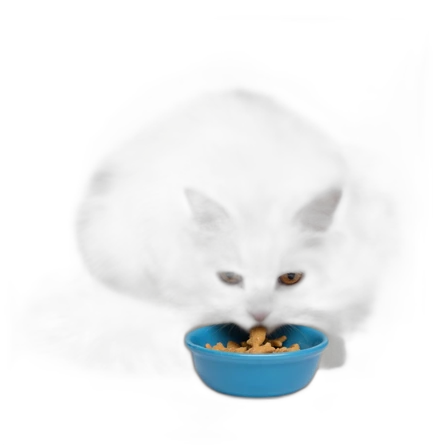
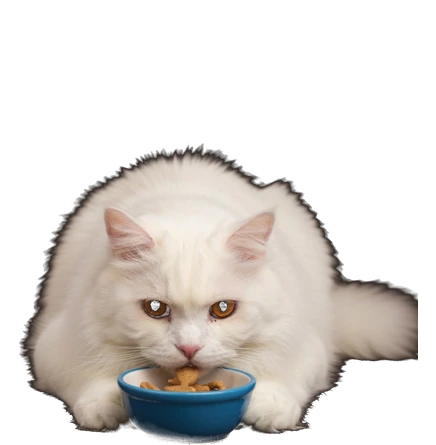
feat: fix eating frame and add plant care interactions
Regenerate the eating cat on a dark studio background, replace the plant with a clean Grok cutout, and add watering, fertilizing and pest-control buttons with bubbles and VFX.

diff --git a/src/styles/shelf.css b/src/styles/shelf.css
@@ -2752,3 +2752,187 @@
   pointer-events: none;
   transform: translateY(4px) scale(0.9);
 }
+
+/* ---------- plant care ---------- */
+.plant-care {
+  position: absolute;
+  right: calc(100% - 12px);
+  bottom: 36px;
+  z-index: 8;
+  display: flex;
+  flex-direction: column;
+  gap: 5px;
+  opacity: 0;
+  pointer-events: none;
+  transform: translateX(4px);
+  transition: opacity 0.18s ease, transform 0.18s ease;
+}
+
+.shelf-decor:hover .plant-care,
+.shelf-decor:focus-within .plant-care,
+.shelf-decor.care-water .plant-care,
+.shelf-decor.care-fertilize .plant-care,
+.shelf-decor.care-pest .plant-care {
+  opacity: 1;
+  pointer-events: auto;
+  transform: translateX(0);
+}
+
+.plant-care button {
+  display: grid;
+  place-items: center;
+  width: 24px;
+  height: 24px;
+  padding: 0;
+  border: 1px solid rgba(238, 211, 166, 0.26);
+  border-radius: 50%;
+  color: #efdbb8;
+  background: rgba(42, 26, 15, 0.82);
+  box-shadow: 0 3px 8px rgba(0, 0, 0, 0.38);
+  cursor: pointer;
+  transition: background 0.16s ease, color 0.16s ease, transform 0.16s ease;
+}
+
+.plant-care button:hover {
+  color: #2a1a0d;
+  background: #d8b476;
+  transform: scale(1.08);
+}
+
+.plant-bubble {
+  position: absolute;
+  right: 14px;
+  bottom: 108px;
+  z-index: 9;
+  width: max-content;
+  max-width: 176px;
+  padding: 7px 10px;
+  border-radius: 10px 10px 3px 10px;
+  color: #3b2816;
+  background: #f4e6c9;
+  box-shadow: 0 8px 18px -10px rgba(0, 0, 0, 0.65);
+  font-size: 10px;
+  line-height: 1.4;
+  animation: plant-bubble-in 0.18s ease both;
+}
+
+.plant-bubble-tail {
+  position: absolute;
+  right: 8px;
+  bottom: -5px;
+  width: 9px;
+  height: 9px;
+  background: inherit;
+  transform: rotate(45deg);
+  border-radius: 0 0 2px 0;
+}
+
+@keyframes plant-bubble-in {
+  from { opacity: 0; transform: translateY(4px); }
+}
+
+.plant-vfx {
+  position: absolute;
+  inset: -12px -8px -4px;
+  pointer-events: none;
+  overflow: visible;
+}
+
+.plant-vfx i {
+  position: absolute;
+  display: block;
+  opacity: 0;
+}
+
+.plant-vfx.water i {
+  top: 8%;
+  left: calc(18% + var(--i) * 11%);
+  width: 4px;
+  height: 7px;
+  border-radius: 50% 50% 55% 55%;
+  background: #8cc3d5;
+  box-shadow: 0 0 4px rgba(140, 195, 213, 0.6);
+  animation: plant-drop 0.85s ease-in calc(var(--i) * 0.07s) forwards;
+}
+
+.plant-vfx.fertilize i {
+  top: calc(28% + var(--i) * 5%);
+  left: calc(18% + var(--i) * 12%);
+  width: 4px;
+  height: 4px;
+  border-radius: 50%;
+  background: #e5c47d;
+  box-shadow: 0 0 7px rgba(229, 196, 125, 0.8);
+  animation: plant-spark 0.9s ease-out calc(var(--i) * 0.06s) forwards;
+}
+
+.plant-vfx.pest i {
+  bottom: 24%;
+  left: calc(20% + var(--i) * 12%);
+  width: 7px;
+  height: 7px;
+  border-radius: 50%;
+  background: rgba(225, 237, 230, 0.72);
+  filter: blur(1px);
+  animation: plant-mist 0.9s ease-out calc(var(--i) * 0.05s) forwards;
+}
+
+.care-water .deco-plant img { animation: plant-drink 0.7s ease-in-out 2; }
+.care-fertilize .deco-plant img { animation: plant-grow 0.8s ease-out; }
+.care-pest .deco-plant img { animation: plant-shake 0.16s linear 4; }
+
+@keyframes plant-drop {
+  0% { opacity: 0; transform: translateY(-6px) scale(0.7); }
+  30% { opacity: 1; }
+  100% { opacity: 0; transform: translateY(48px) scale(0.9); }
+}
+
+@keyframes plant-spark {
+  0% { opacity: 0; transform: translateY(8px) scale(0.4); }
+  35% { opacity: 1; }
+  100% { opacity: 0; transform: translateY(-18px) scale(1.15); }
+}
+
+@keyframes plant-mist {
+  0% { opacity: 0; transform: translate(10px, 6px) scale(0.4); }
+  30% { opacity: 0.9; }
+  100% { opacity: 0; transform: translate(-22px, -14px) scale(1.8); }
+}
+
+@keyframes plant-drink {
+  0%, 100% { transform: rotate(0) scale(1); filter: brightness(1); }
+  50% { transform: rotate(-1.5deg) scale(1.015); filter: brightness(1.08); }
+}
+
+@keyframes plant-grow {
+  0% { transform: scale(1); }
+  45% { transform: scale(1.045) translateY(-2px); }
+  100% { transform: scale(1); }
+}
+
+@keyframes plant-shake {
+  0%, 100% { transform: translateX(0) rotate(0); }
+  25% { transform: translateX(-2px) rotate(-1deg); }
+  75% { transform: translateX(2px) rotate(1deg); }
+}
+
+.deco-plant img {
+  filter: drop-shadow(0 5px 5px rgba(0, 0, 0, 0.3));
+}
+
+@media (hover: none) {
+  .plant-care {
+    opacity: 1;
+    pointer-events: auto;
+    transform: none;
+  }
+}
+
+@media (prefers-reduced-motion: reduce) {
+  .plant-vfx, .care-water .deco-plant img, .care-fertilize .deco-plant img, .care-pest .deco-plant img {
+    animation: none;
+  }
+}
+
+.shelf-decor { pointer-events: auto; }
+.shelf-decor .deco-stack { pointer-events: none; }

diff --git a/src/components/Shelf/ShelfDecor.tsx b/src/components/Shelf/ShelfDecor.tsx
@@ -1,3 +1,5 @@
+import { useEffect, useRef, useState } from 'react';
+import { Bug, Droplets, Leaf } from 'lucide-react';
 import { cn } from '../../lib/utils';
 
 type Props = {
@@ -8,18 +10,71 @@ type Props = {
   movable?: boolean;
 };
 
+type Care = 'water' | 'fertilize' | 'pest';
+
+const CARE_COPY: Record<Care, string> = {
+  water: '喝饱了，叶子亮亮的。',
+  fertilize: '加点养分，慢慢长。',
+  pest: '小虫子走开了。',
+};
+
 export function ShelfDecor({ x = 80, dragging = false, movable = true, onMoveStart, onMoveEnd }: Props) {
+  const [care, setCare] = useState<Care | null>(null);
+  const [message, setMessage] = useState<string | null>(null);
+  const timer = useRef<number | null>(null);
+  const bubbleTimer = useRef<number | null>(null);
+
+  useEffect(() => {
+    return () => {
+      if (timer.current) window.clearTimeout(timer.current);
+      if (bubbleTimer.current) window.clearTimeout(bubbleTimer.current);
+    };
+  }, []);
+
+  const act = (kind: Care) => {
+    if (timer.current) window.clearTimeout(timer.current);
+    if (bubbleTimer.current) window.clearTimeout(bubbleTimer.current);
+    setCare(kind);
+    setMessage(CARE_COPY[kind]);
+    timer.current = window.setTimeout(() => setCare(null), 1600);
+    bubbleTimer.current = window.setTimeout(() => setMessage(null), 2800);
+  };
+
   return (
     <div
-      className={cn('shelf-decor', dragging && 'decor-dragging')}
+      className={cn('shelf-decor', dragging && 'decor-dragging', care && `care-${care}`)}
       style={{ left: `clamp(8px, ${x}%, calc(100% - 134px))`, right: 'auto' } as React.CSSProperties}
     >
+      {message && (
+        <div className="plant-bubble" role="status">
+          {message}
+          <span className="plant-bubble-tail" aria-hidden="true" />
+        </div>
+      )}
+
+      <div className="plant-care" role="group" aria-label="照看盆栽">
+        <button onClick={() => act('water')} title="浇水" aria-label="给盆栽浇水">
+          <Droplets size={12} />
+        </button>
+        <button onClick={() => act('fertilize')} title="施肥" aria-label="给盆栽施肥">
+          <Leaf size={12} />
+        </button>
+        <button onClick={() => act('pest')} title="驱虫" aria-label="给盆栽驱虫">
+          <Bug size={12} />
+        </button>
+      </div>
+
       <div className="deco-stack" aria-hidden="true">
         <span className="deco-book b1" />
         <span className="deco-book b2" />
         <span className="deco-book b3" />
         <span className="deco-plant">
           <img src={`${import.meta.env.BASE_URL}decor/plant-ai.webp`} alt="" draggable={false} />
+          {care && (
+            <span className={`plant-vfx ${care}`} aria-hidden="true">
+              {Array.from({ length: 6 }, (_, i) => <i key={i} style={{ '--i': i } as React.CSSProperties} />)}
+            </span>
+          )}
         </span>
       </div>
 
